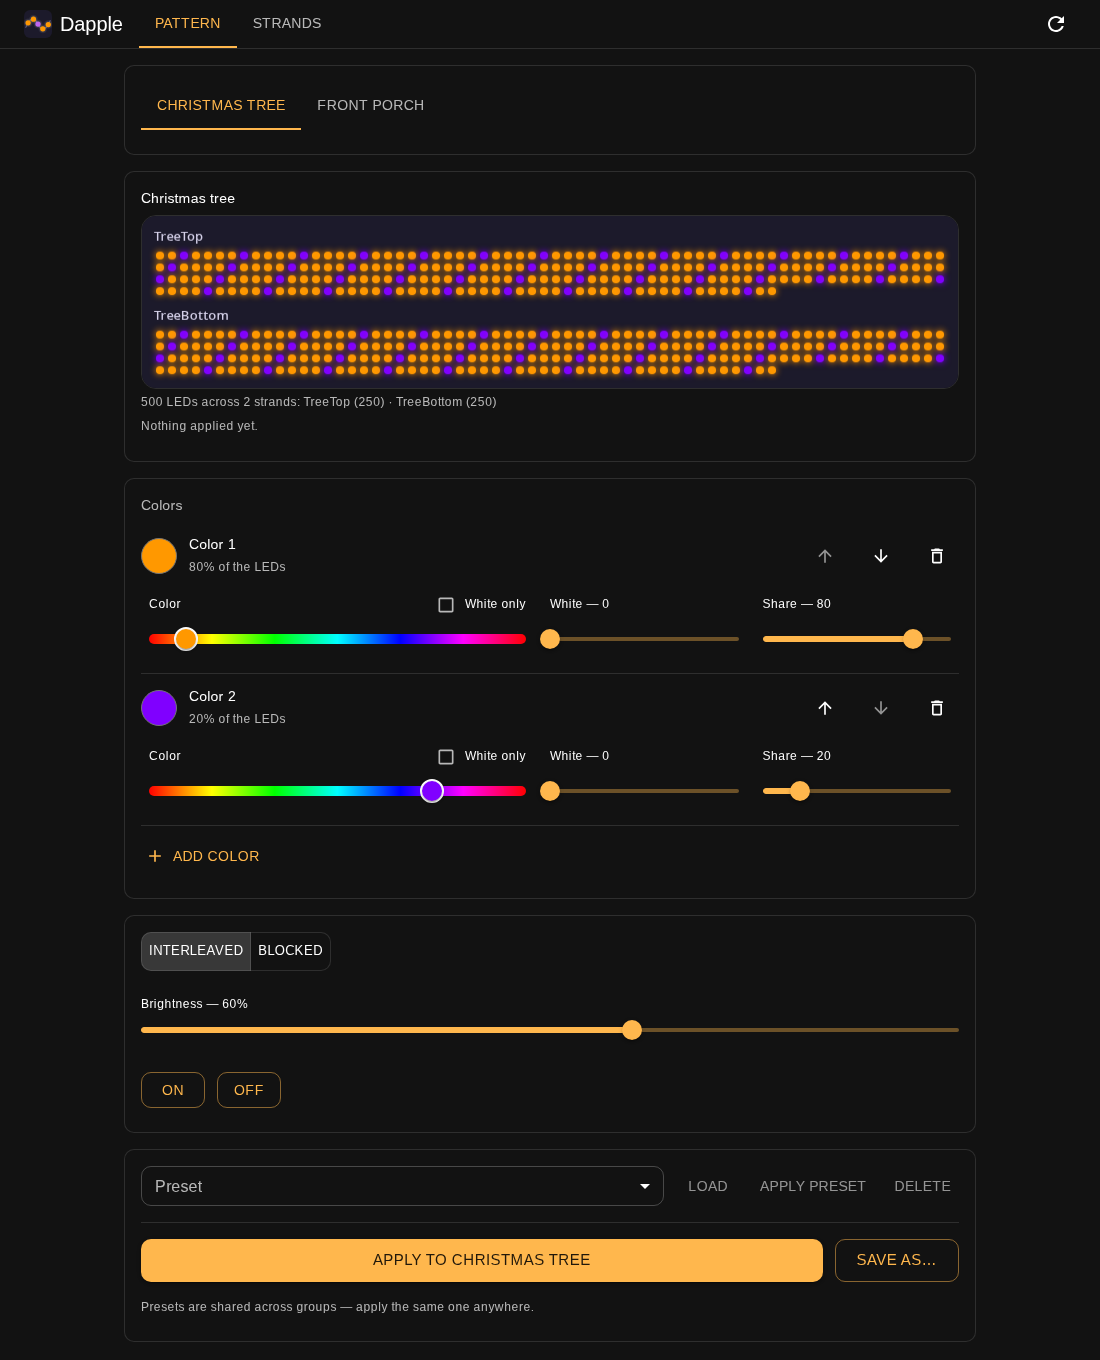
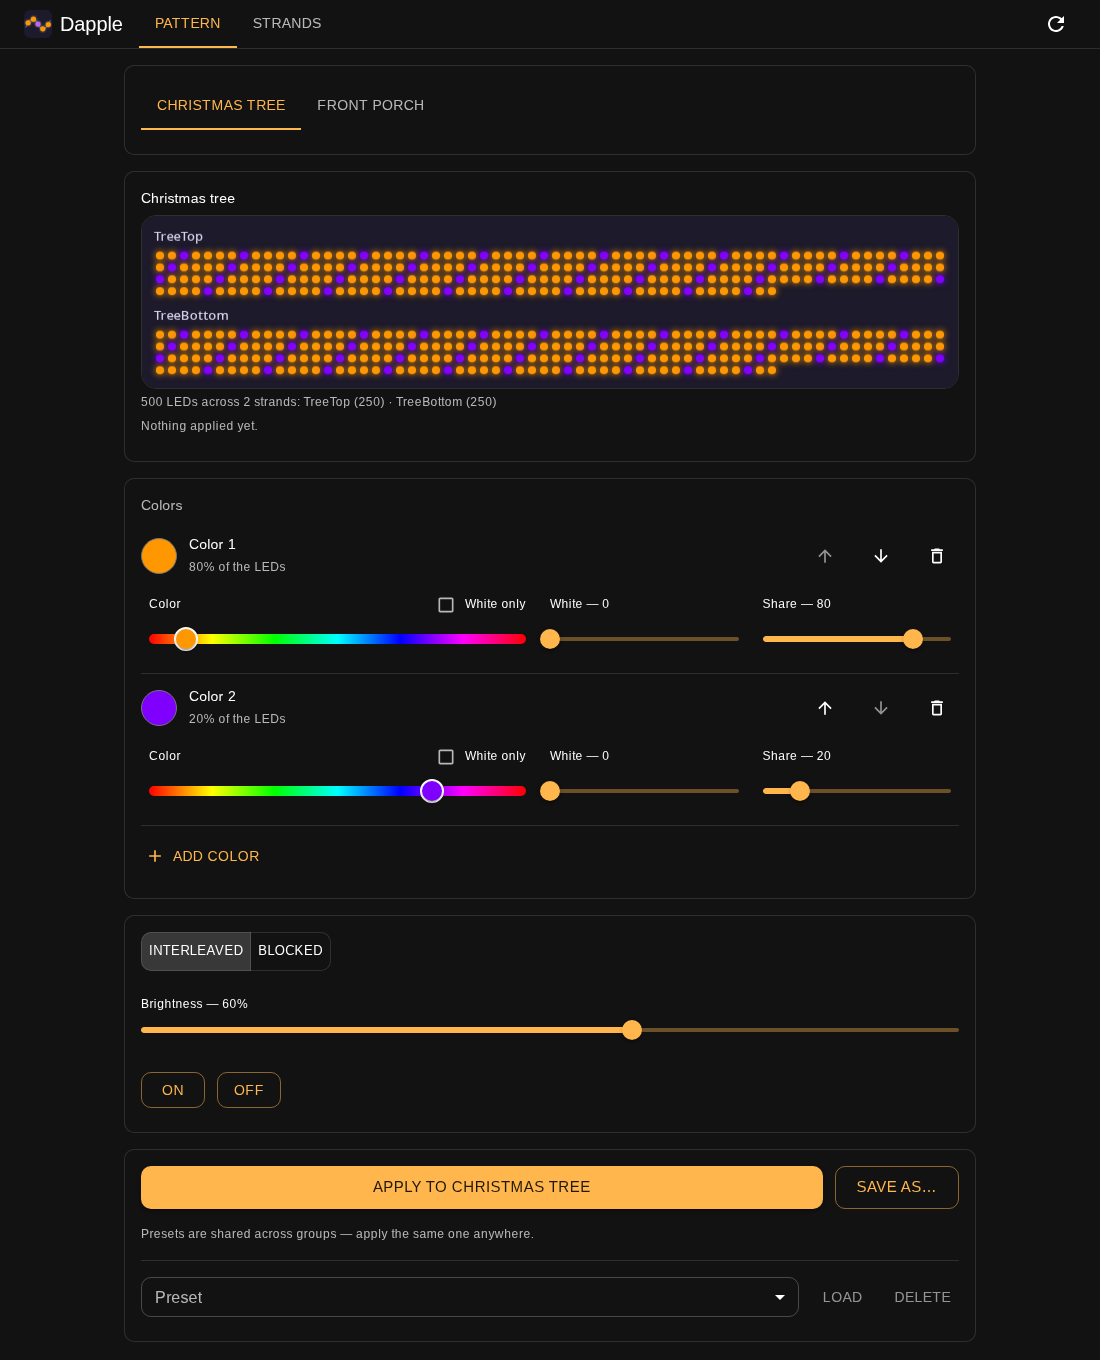
Put Apply above presets and drop the Apply preset button
Load then Apply does the same thing. Apply now sends the preset by name while
the editor still holds it untouched, so the group's state keeps naming the
preset; any edit makes it a custom pattern. The /preset route stays for
Home Assistant.

Changed region(s): [[0.1236, 0.8338, 0.8655, 0.9882]]

diff --git a/frontend/src/PatternPage.jsx b/frontend/src/PatternPage.jsx
@@ -75,6 +75,10 @@ export default function PatternPage({ groups, groupId, loaded, onSelectGroup, on
   // rather than in SlotRow because rows are keyed by index: moving a color must
   // carry its open state with it, not leave it behind at the old position.
   const [openSlots, setOpenSlots] = useState(() => new Set())
+  // The preset the editor holds, untouched. Every edit builds a new pattern
+  // object, so identity is enough to tell whether Apply is still applying that
+  // preset, and the group's state can name it rather than "a custom pattern".
+  const [fromPreset, setFromPreset] = useState(null)
 
   const group = groups.find((candidate) => candidate.id === groupId) || null
   const known = Boolean(group && group.segments.length)
@@ -102,6 +106,9 @@ export default function PatternPage({ groups, groupId, loaded, onSelectGroup, on
     const current = groups.find((candidate) => candidate.id === groupId)
     setPattern(current?.state?.pattern ?? STARTING_PATTERN)
     setSelected(current?.state?.preset ?? '')
+    // Not the preset it was applied from: that preset may have been edited since,
+    // and applying by name would send its new colors, not the ones on screen.
+    setFromPreset(null)
     setStatus(null)
     setOpenSlots(new Set())
   }, [groupId, groups])
@@ -206,23 +213,25 @@ export default function PatternPage({ groups, groupId, loaded, onSelectGroup, on
   }
 
   const onApply = () =>
-    run(`Applied to ${group.name}`, () => api.applyToGroup(groupId, pattern).then(after))
+    fromPreset?.pattern === pattern
+      ? run(`Applied “${fromPreset.name}” to ${group.name}`, () =>
+          api.applyPresetToGroup(groupId, fromPreset.name).then(after),
+        )
+      : run(`Applied to ${group.name}`, () => api.applyToGroup(groupId, pattern).then(after))
 
   const onLoadPreset = () => {
     const preset = presets[selected]
     if (!preset) return
-    setPattern({ brightness: 60, ...preset })
+    const next = { brightness: 60, ...preset }
+    setPattern(next)
+    setFromPreset({ name: selected, pattern: next })
     setOpenSlots(new Set())
     setStatus({ severity: 'info', text: `Loaded “${selected}” — not applied yet` })
   }
 
-  const onApplyPreset = () =>
-    run(`Applied “${selected}” to ${group.name}`, () =>
-      api.applyPresetToGroup(groupId, selected).then(after),
-    )
-
   const onDeletePreset = async () => {
     await run(`Deleted “${selected}”`, () => api.deletePreset(selected))
+    if (fromPreset?.name === selected) setFromPreset(null)
     setSelected('')
     loadPresets()
   }
@@ -231,7 +240,8 @@ export default function PatternPage({ groups, groupId, loaded, onSelectGroup, on
     const name = saveName.trim()
     if (!name) return
     setSaveOpen(false)
-    await run(`Saved “${name}”`, () => api.savePreset(name, pattern))
+    const saved = await run(`Saved “${name}”`, () => api.savePreset(name, pattern))
+    if (saved) setFromPreset({ name, pattern })
     setSelected(name)
     loadPresets()
   }
@@ -426,41 +436,6 @@ export default function PatternPage({ groups, groupId, loaded, onSelectGroup, on
         <Card variant="outlined">
           <CardContent>
             <Stack spacing={2}>
-              <Stack
-                direction={{ xs: 'column', sm: 'row' }}
-                spacing={1.5}
-                alignItems={{ sm: 'center' }}
-              >
-                <FormControl size="small" sx={{ minWidth: 200, flex: 1 }}>
-                  <InputLabel id="preset-label">Preset</InputLabel>
-                  <Select
-                    labelId="preset-label"
-                    label="Preset"
-                    value={selected}
-                    onChange={(event) => setSelected(event.target.value)}
-                  >
-                    {Object.keys(presets)
-                      .sort()
-                      .map((name) => (
-                        <MenuItem key={name} value={name}>
-                          {name}
-                        </MenuItem>
-                      ))}
-                  </Select>
-                </FormControl>
-                <Button onClick={onLoadPreset} disabled={!selected}>
-                  Load
-                </Button>
-                <Button onClick={onApplyPreset} disabled={!selected || busy || !group}>
-                  Apply preset
-                </Button>
-                <Button color="error" onClick={onDeletePreset} disabled={!selected || busy}>
-                  Delete
-                </Button>
-              </Stack>
-
-              <Divider />
-
               <Stack direction="row" spacing={1.5}>
                 <Button
                   variant="contained"
@@ -487,6 +462,38 @@ export default function PatternPage({ groups, groupId, loaded, onSelectGroup, on
                   ? 'Every color is at 0% — give at least one of them a share.'
                   : 'Presets are shared across groups — apply the same one anywhere.'}
               </Typography>
+
+              <Divider />
+
+              <Stack
+                direction={{ xs: 'column', sm: 'row' }}
+                spacing={1.5}
+                alignItems={{ sm: 'center' }}
+              >
+                <FormControl size="small" sx={{ minWidth: 200, flex: 1 }}>
+                  <InputLabel id="preset-label">Preset</InputLabel>
+                  <Select
+                    labelId="preset-label"
+                    label="Preset"
+                    value={selected}
+                    onChange={(event) => setSelected(event.target.value)}
+                  >
+                    {Object.keys(presets)
+                      .sort()
+                      .map((name) => (
+                        <MenuItem key={name} value={name}>
+                          {name}
+                        </MenuItem>
+                      ))}
+                  </Select>
+                </FormControl>
+                <Button onClick={onLoadPreset} disabled={!selected}>
+                  Load
+                </Button>
+                <Button color="error" onClick={onDeletePreset} disabled={!selected || busy}>
+                  Delete
+                </Button>
+              </Stack>
             </Stack>
           </CardContent>
         </Card>

diff --git a/README.md b/README.md
@@ -135,10 +135,8 @@ next.
 
 Dapple starts with four: **Halloween**, **Christmas**, **July 4th** and **Warm white**.
 
-To bring one back, pick it from the **Preset** dropdown and click:
-
-- **Load** to put it in the editor so you can adjust it first. Nothing reaches the lights yet.
-- **Apply preset** to send it to the selected group straight away.
+To bring one back, pick it from the **Preset** dropdown and click **Load**. That puts it in the
+editor, so you can adjust it first. Nothing reaches the lights until you click **Apply**.
 
 **Delete** removes a saved preset. It doesn't change what your lights are currently showing.
 
